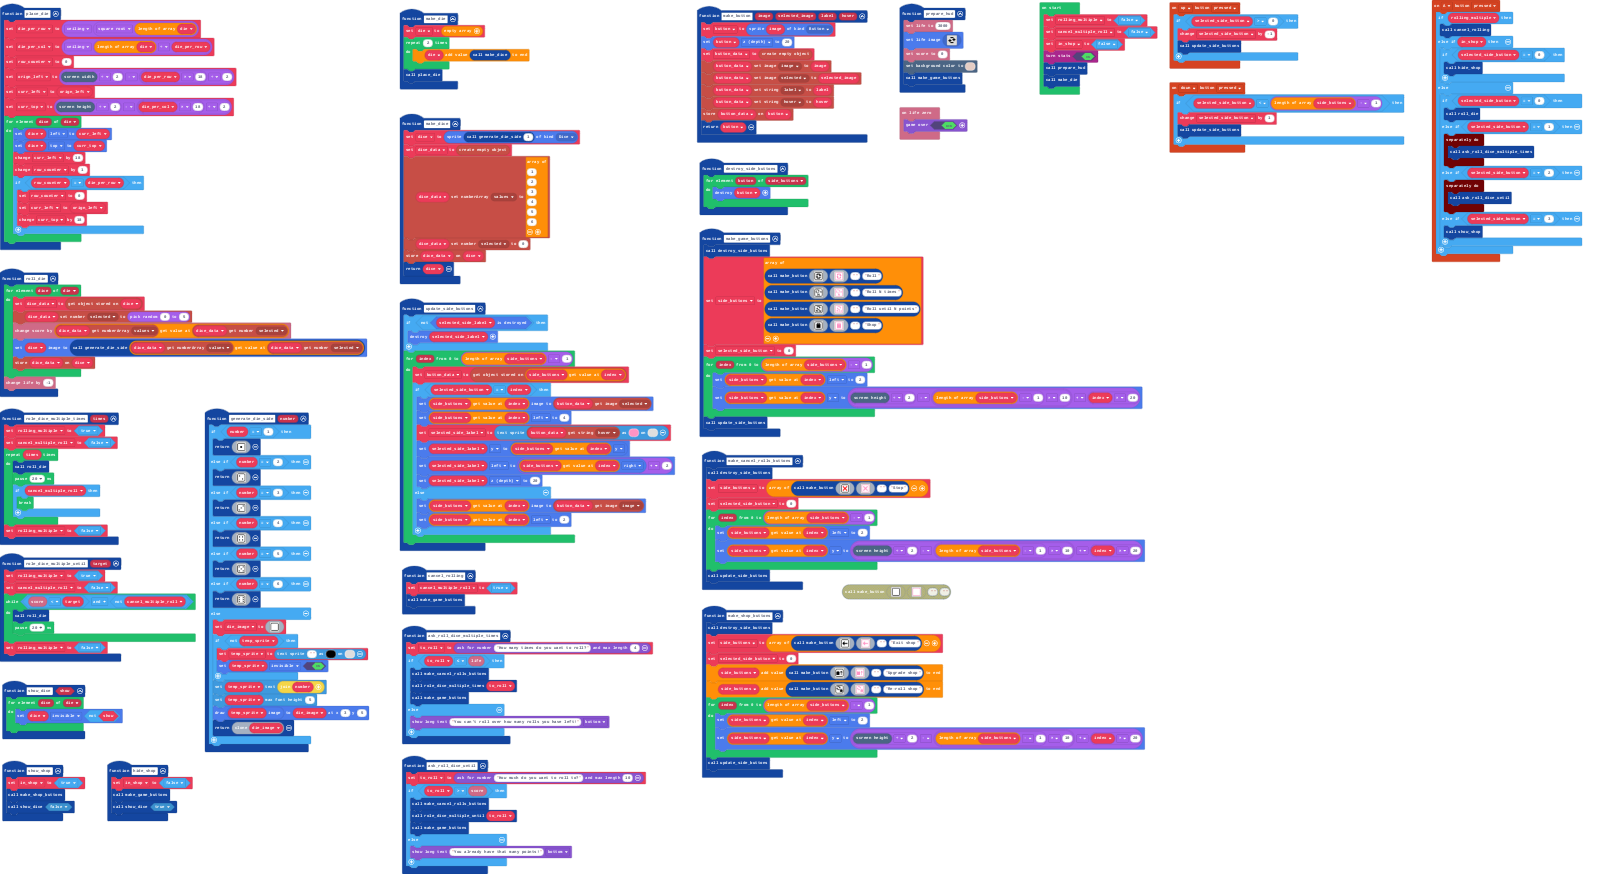
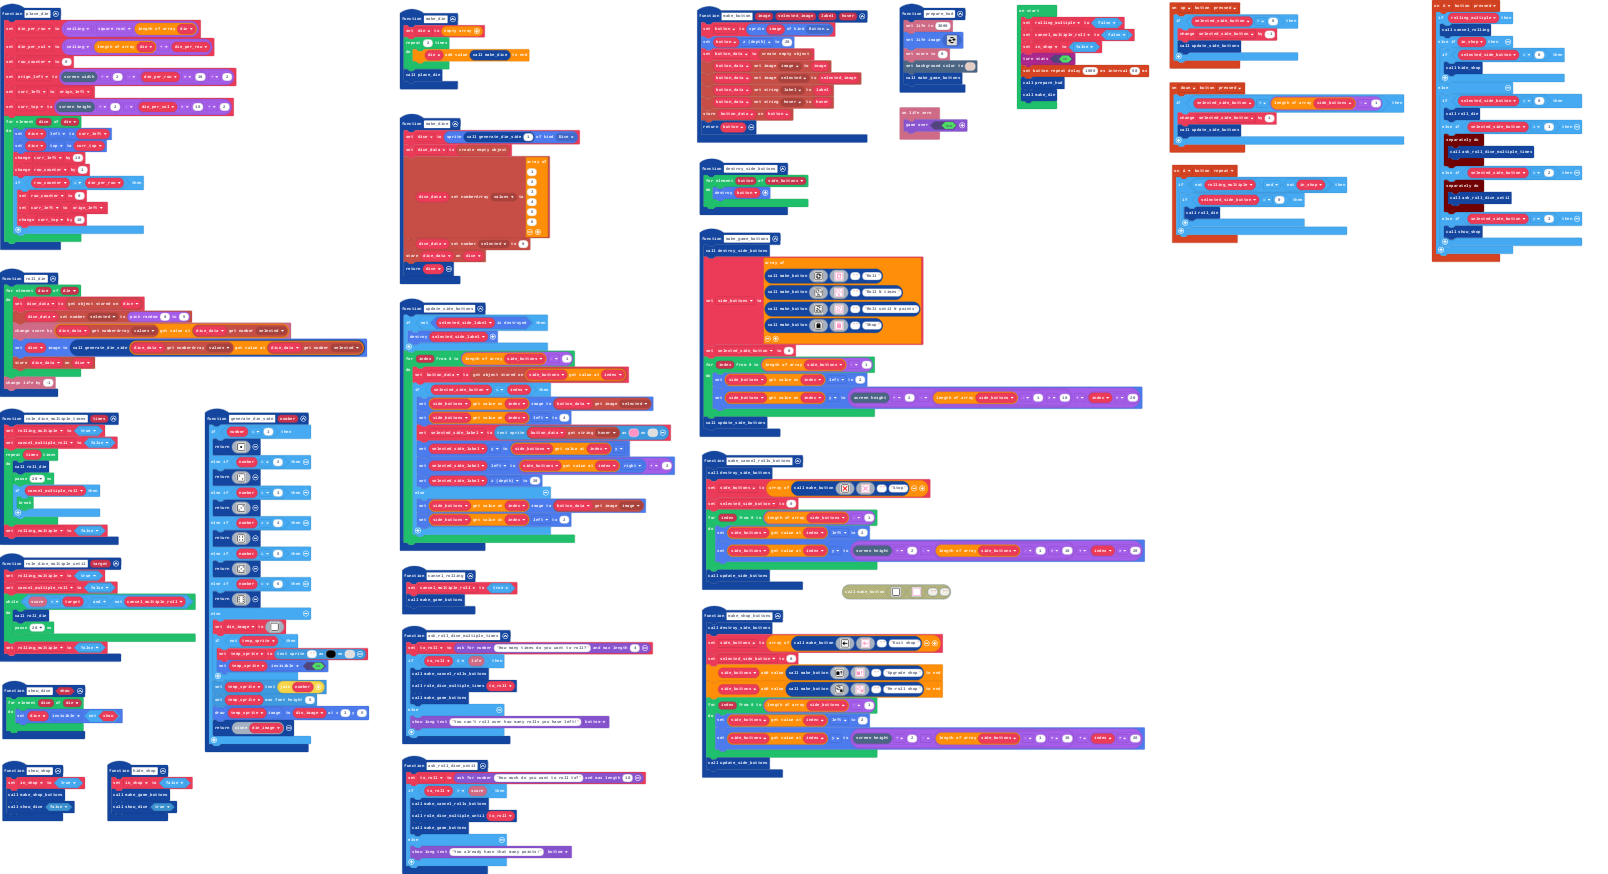
Can hold down button to roll quickly

Changed region(s): [[0.7152, 0.1854, 0.8396, 0.278], [0.6219, 0.0, 0.7152, 0.1236]]

diff --git a/main.ts b/main.ts
@@ -233,6 +233,13 @@ function role_dice_multiple_until (target: number) {
 info.onLifeZero(function () {
     game.over(true)
 })
+controller.A.onEvent(ControllerButtonEvent.Repeated, function () {
+    if (!(rolling_multiple) && !(in_shop)) {
+        if (selected_side_button == 0) {
+            roll_die()
+        }
+    }
+})
 function hide_shop () {
     in_shop = false
     make_game_buttons()
@@ -293,5 +300,6 @@ rolling_multiple = false
 cancel_multiple_roll = false
 in_shop = false
 stats.turnStats(true)
+controller.configureRepeatEventDefaults(1000, 50)
 prepare_hud()
 make_die()
